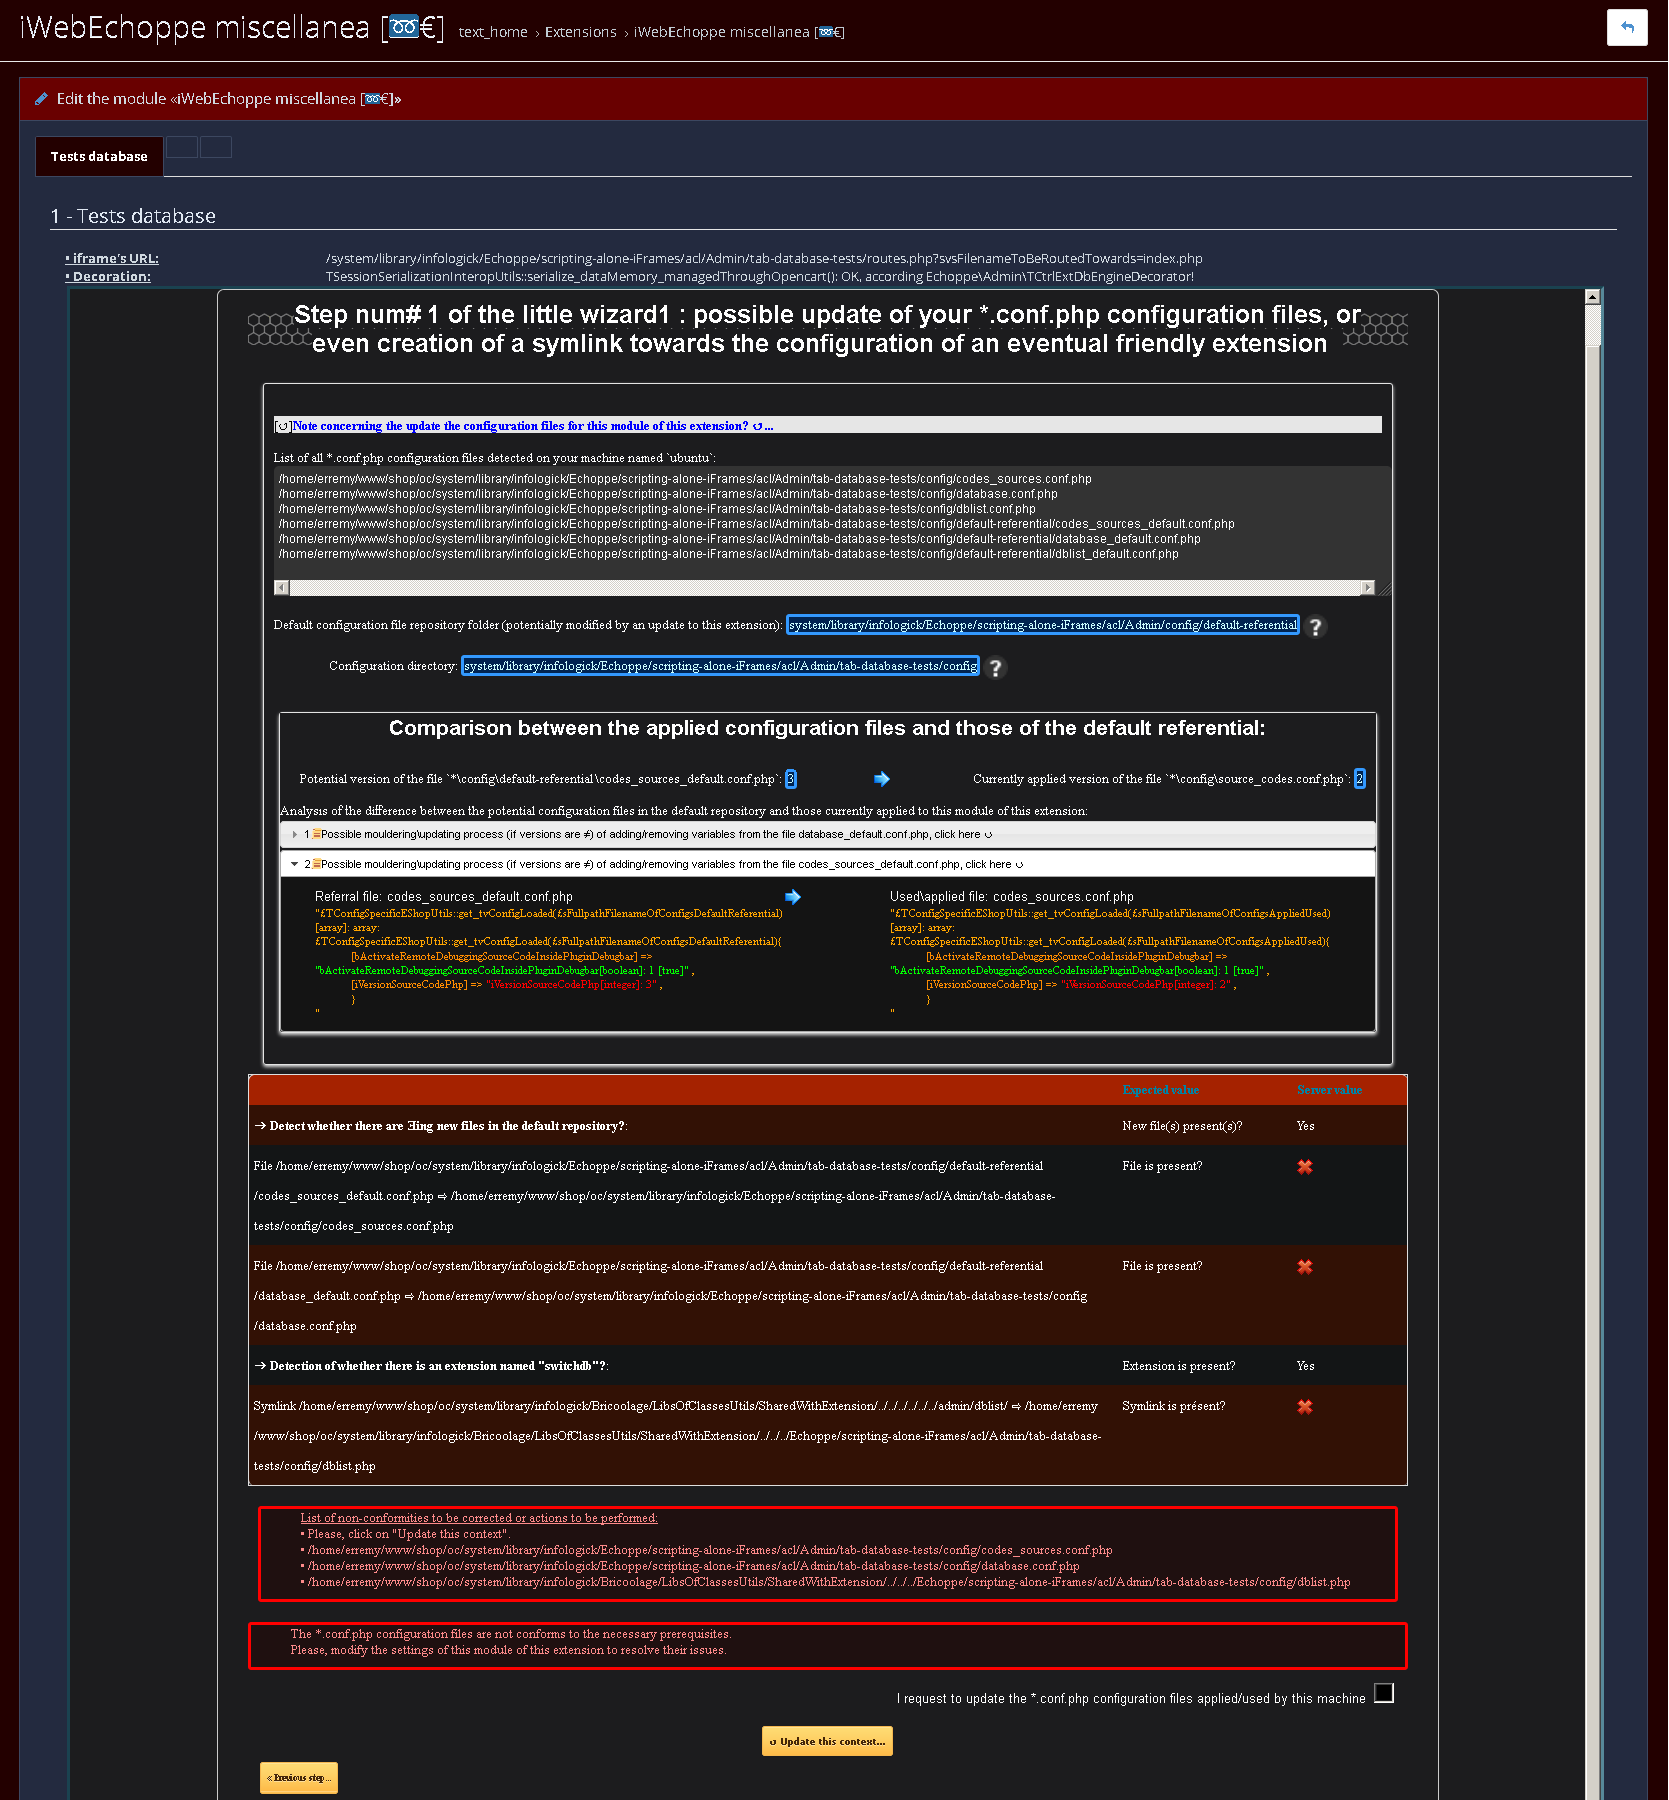
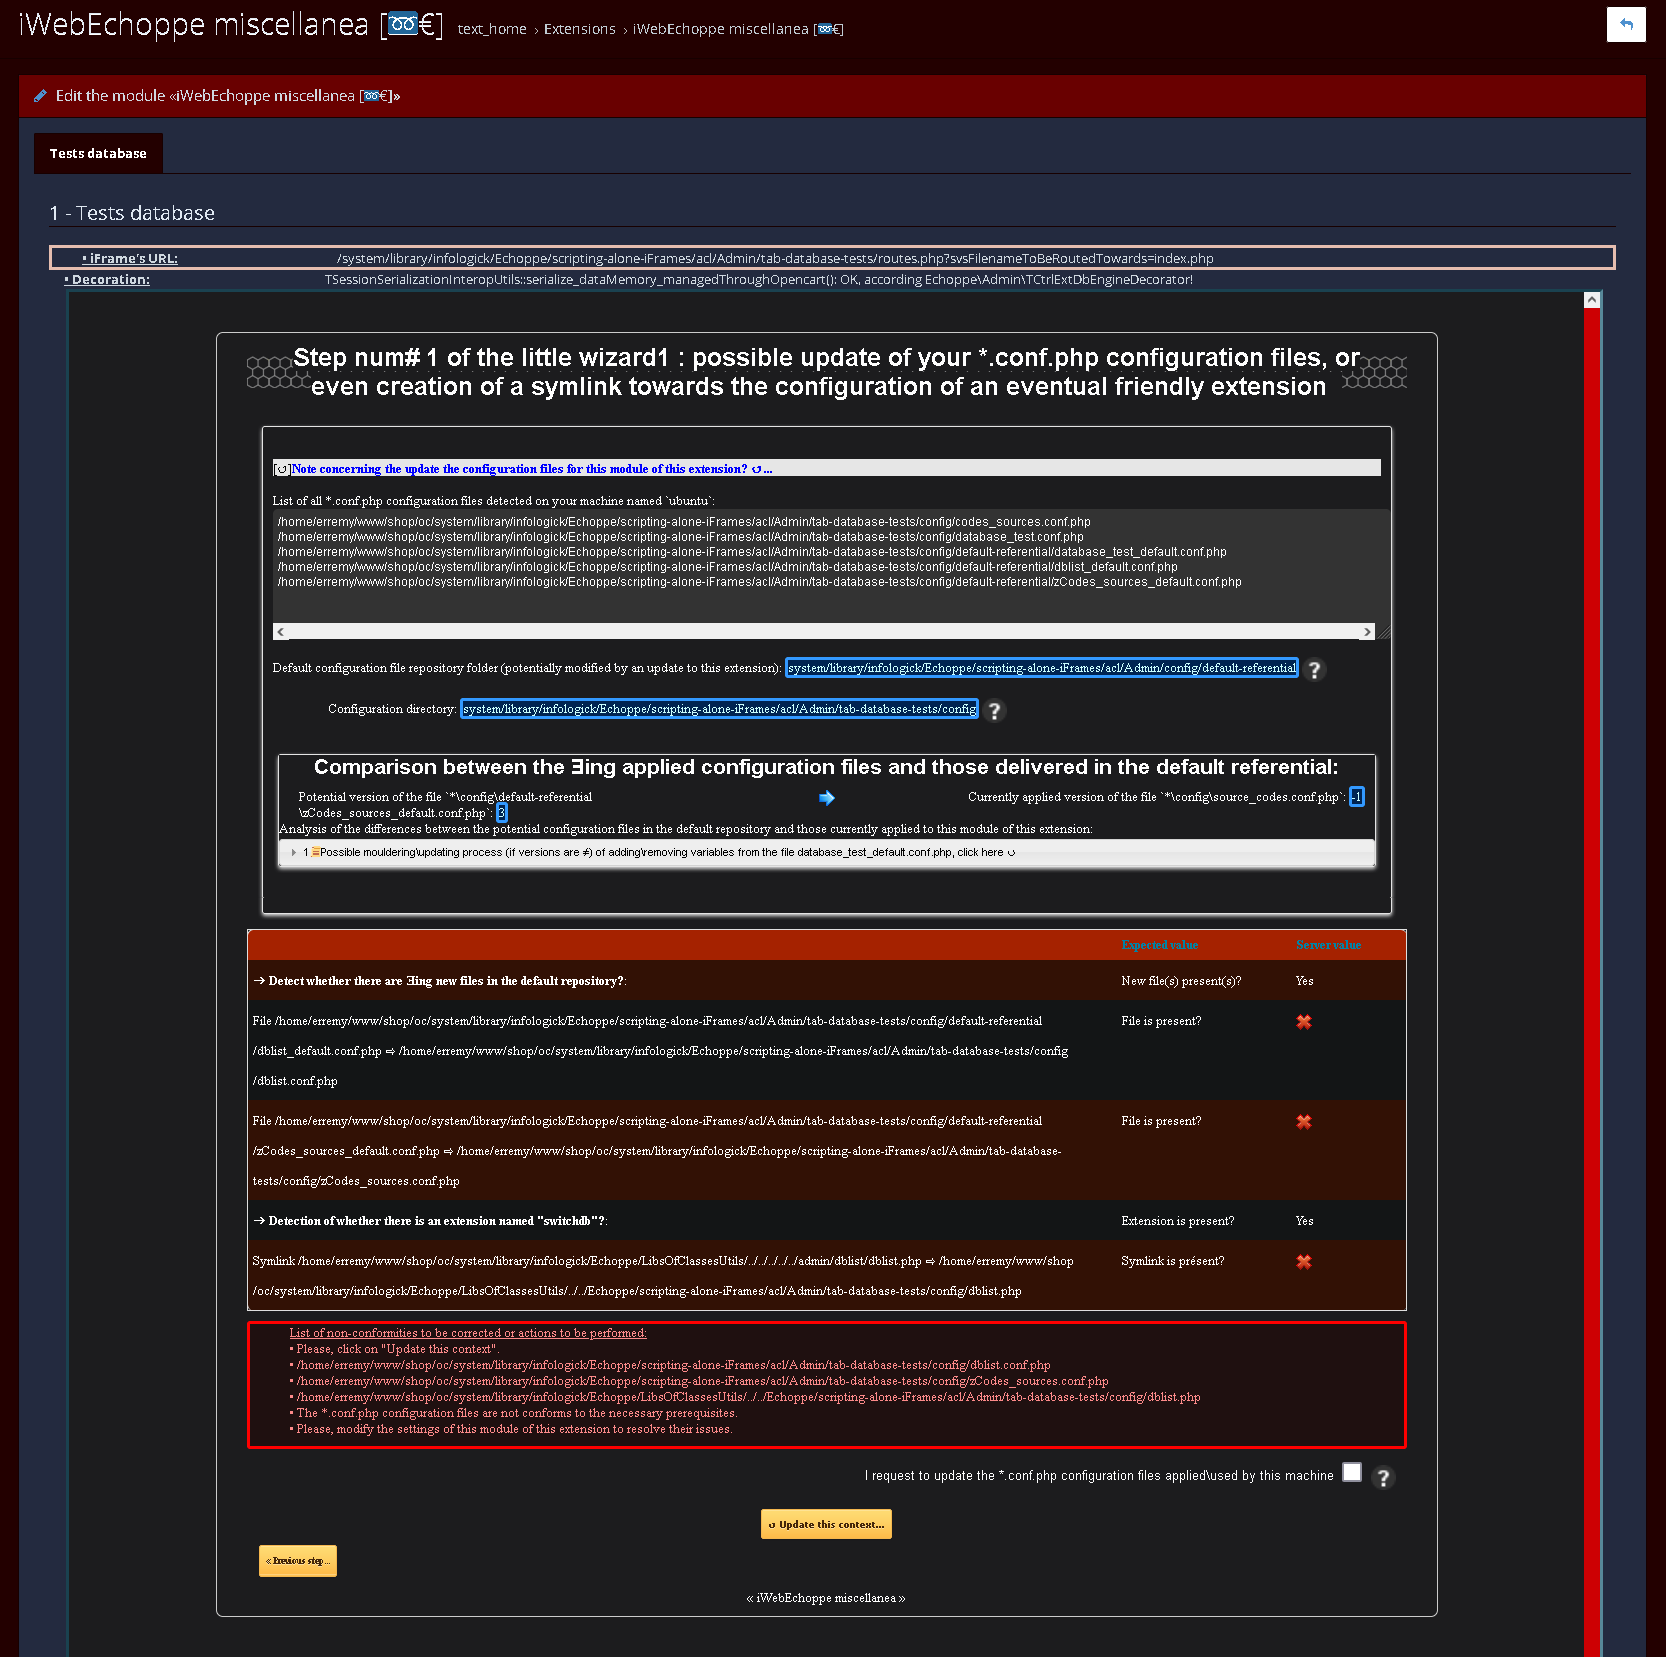
modf: illustration de la méthode POST

Changed region(s): [[0.0, 0.0, 0.9982, 1.0]]

diff --git a/docs/01-tests-base/step1.htm b/docs/01-tests-base/step1.htm
@@ -42,13 +42,12 @@
 		<h1>Question: comment mettre à jour une configuration générale des fichiers de configuration (*.conf.php) d'une «Base des tests» avec «iWebEchoppe miscellanea»?</h1><br>
 
 		<p>
-			Pour information, cette étape à pour but de créer de nouveaux fichiers *.conf.php par copier-coller depuis ceux présents dans le dossier */config/<span class="stabilo_blanc">default-referential</span>, si nécessaire. 
+			Pour information, cette étape a pour but de créer de nouveaux fichiers *.conf.php par copier-coller depuis ceux présents dans le dossier */config/<span class="stabilo_blanc">default-referential</span>, si nécessaire. 
 			Cette étape va aussi vérifier si de nouvelles variables doivent être créées dans d'anciens fichiers de configuration déjà existants, du fait de nouvelles variables découvertes dans ceux ceux présents dans le dossier */config/default-referential, si nécessaire.
 		</p>
 
 		<h3>L'étape 1 concerne la récupération, voire de mise à jour, des fichiers textes de configuration déjà existant (<span class="stabilo_blanc">fichiers *.conf.php</span>)</h3><br>
 
-		
 		<p>
 			Globalement, cette étape 1 compare la valeur de la variable <span class="stabilo_blanc">iVersionSourceCodePhp</span> contenue dans <span class="stabilo_blanc">/shop/config/codes_sources.conf.php</span> 
 			par rapport à celle de la même variable iVersionSourceCodePhp du fichier /shop/config.default-referential/codes_sources_default.conf.php. 
@@ -61,16 +60,19 @@
 			<p align="center">
 				<img src="./step1Files/step1_eventGET1.png" width="68%" /><br><br>
 				<img src="./step1Files/step1_eventGET2.png" width="68%" /><br>
-				<i>Illustrations (selon différents scénarios\contextes) de la page jetée (méthode=GET) à l'étape 1</i>
-				<br><br>
+				<i>Illustrations (selon différents scénarios\contextes ci-dessus) de la page jetée (méthode=GET) à l'étape 1</i>
+				<br><br><br>
 				<img src="./step1Files/step1_eventGET3.png" width="68%" /><br><br>
-				<i>A l'étape 1 (méthode=GET), un comparateur niché dans un contrôle visuel en forme de soufflets d'accordéon, permet de visualiser les différences entre les variables des fichiers de configuration existants, et celles d'une nouvelle version de ce module</i>
+				<i>À l'étape 1 (méthode=GET), illustration ci-dessus de la présence d'un comparateur de variables, comparateur niché dans un contrôle visuel en forme de soufflets d'accordéon, comparateur qui permet de visualiser les différences entre les variables des fichiers de configuration existants, avec les variables d'une éventuelle nouvelle version de ce module<br>
+				Cette étape détecte diverses configurations et liste les incohérences et les modifications qui doivent être faites pour passer à l'étape numéro 2 suivante.</i>
 			</p>
-			
-			<!-- p align="center">
-				<img src="./step1Files/005_step1_eventPOST1_NOK.png" width="68%" />
-				<img src="./step1Files/006_step1_eventPOST2_OK.png" width="68%" />
-			</p -->
+
+		<br><br>
+
+			<p align="center">
+				<img src="./step1Files/step1_eventPOST1.png" width="68%" /><br>
+				<i>À l'étape 1 (méthode=POST), illustration ci-dessus des mises à jour faites avec succès, par la moulinette de la montée de version des fichiers depuis la configuration actuellement appliquée vers la version du référentiel par défaut, référentiel installé ou mis à jour avec l'installation ou la mise à jour de cette extension.
+			</p>
 			
 		</p>
 
